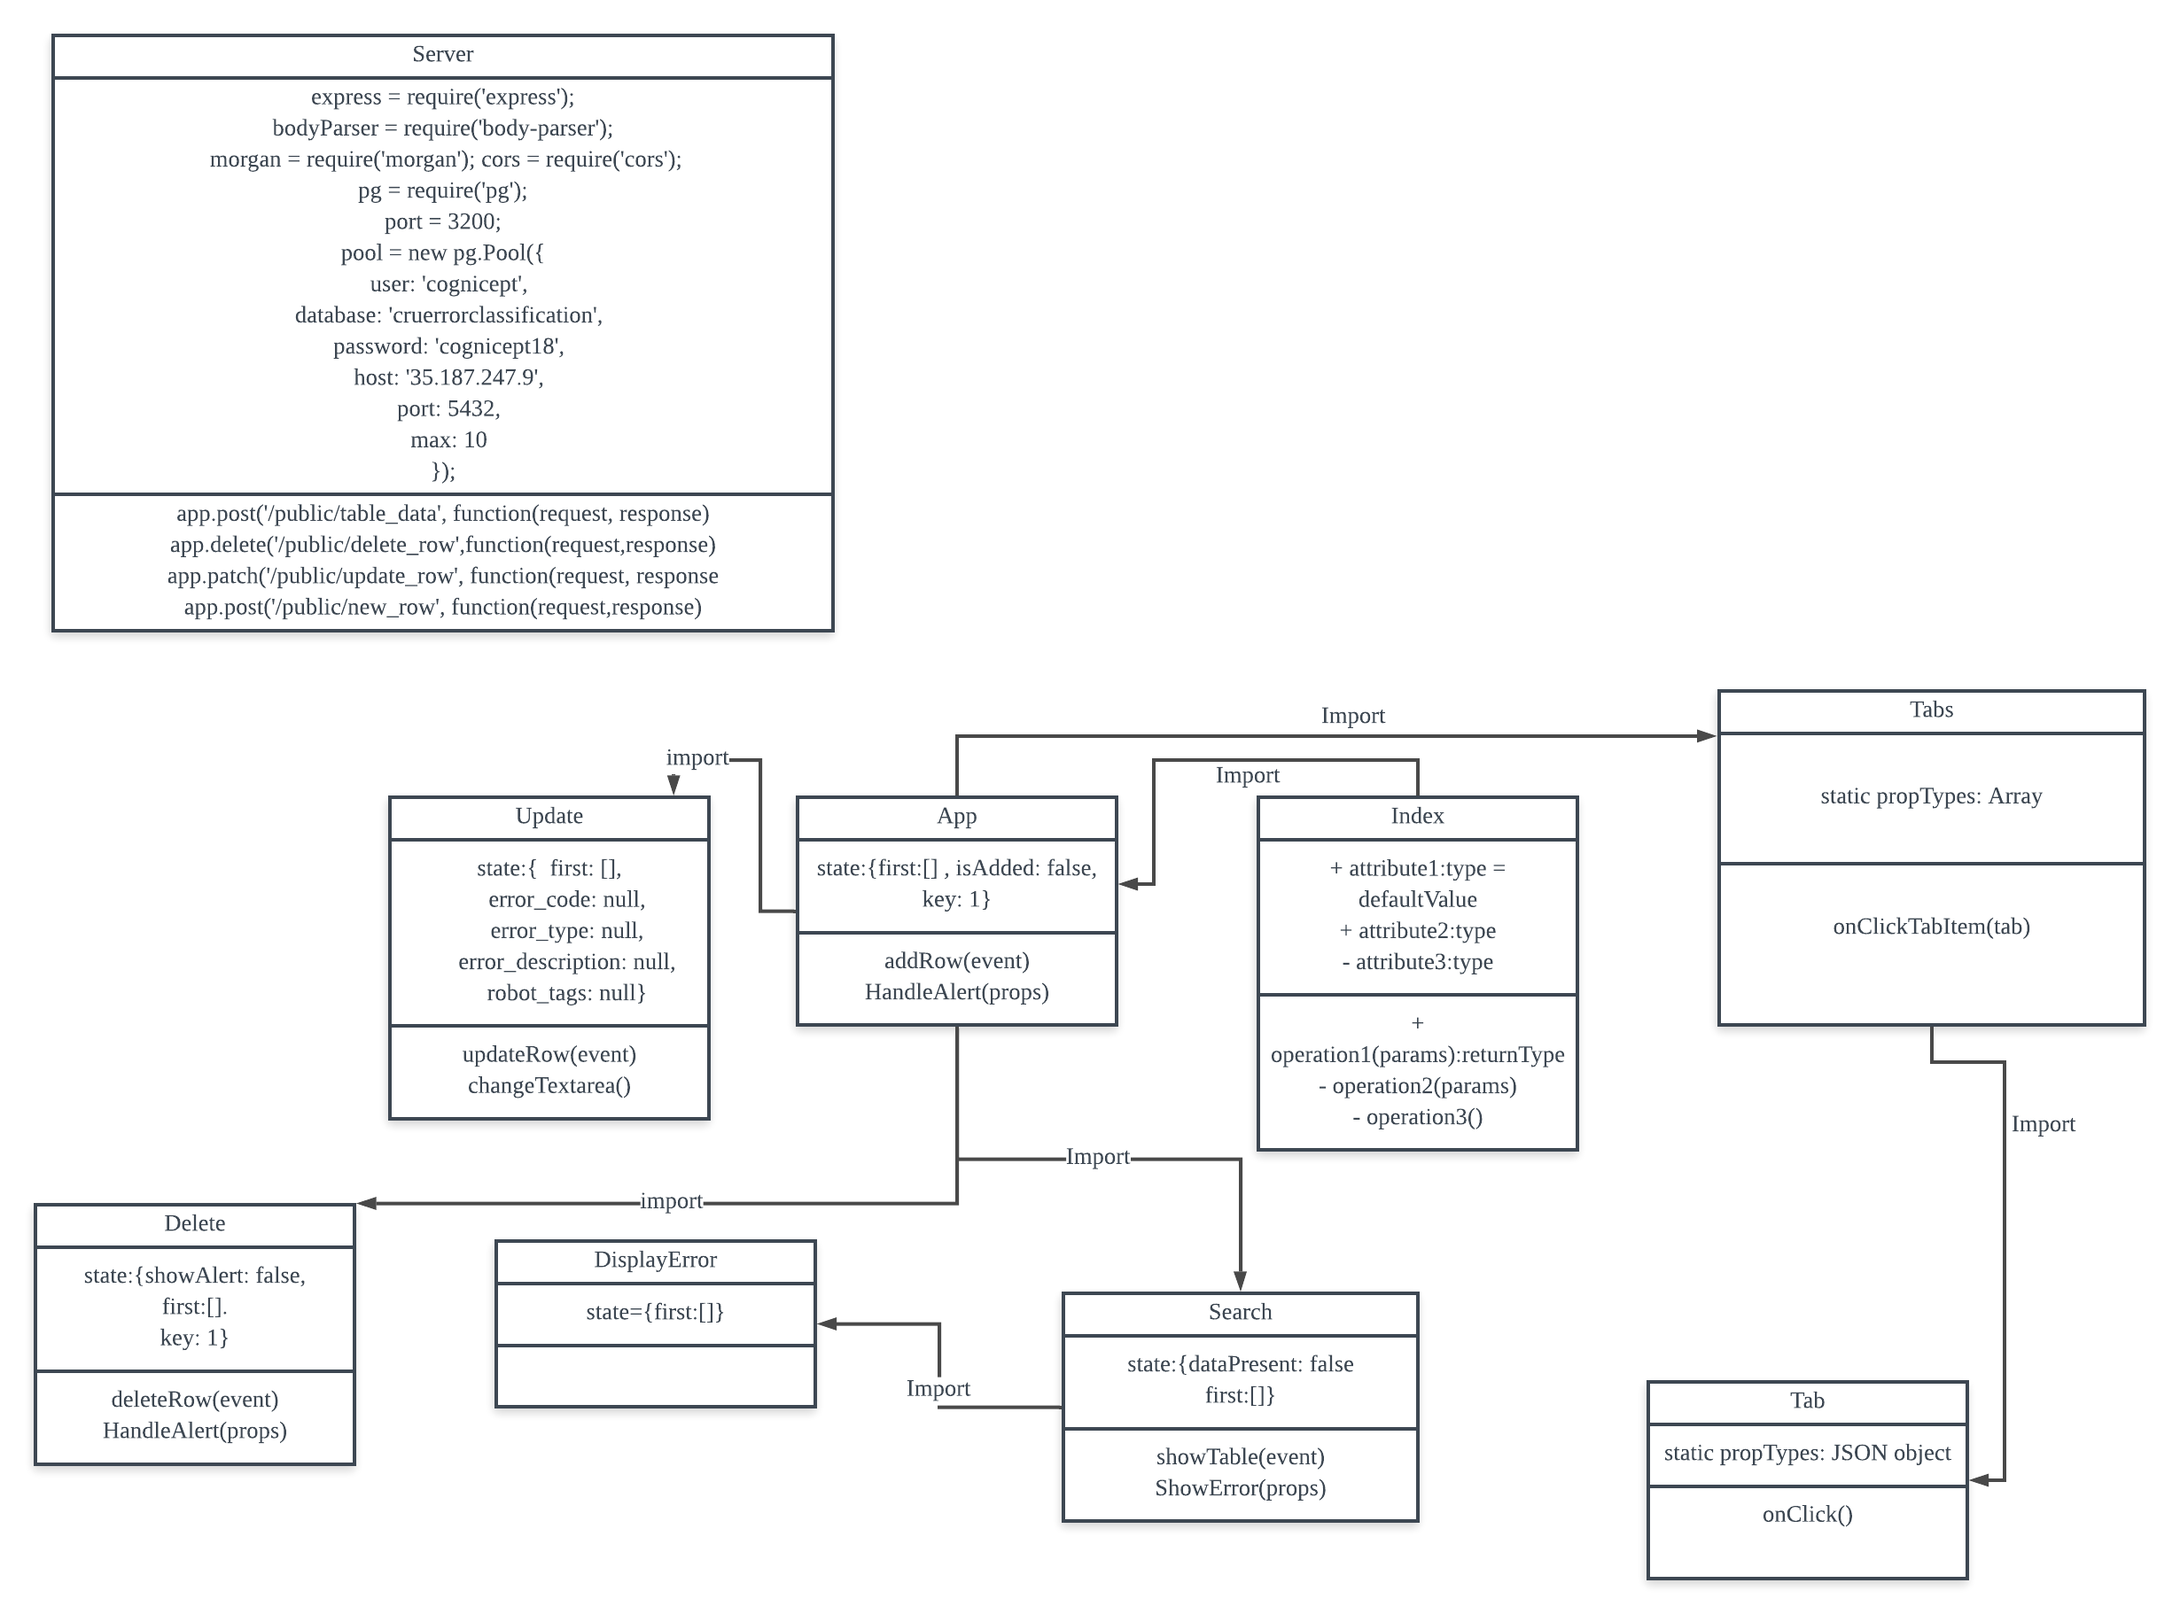
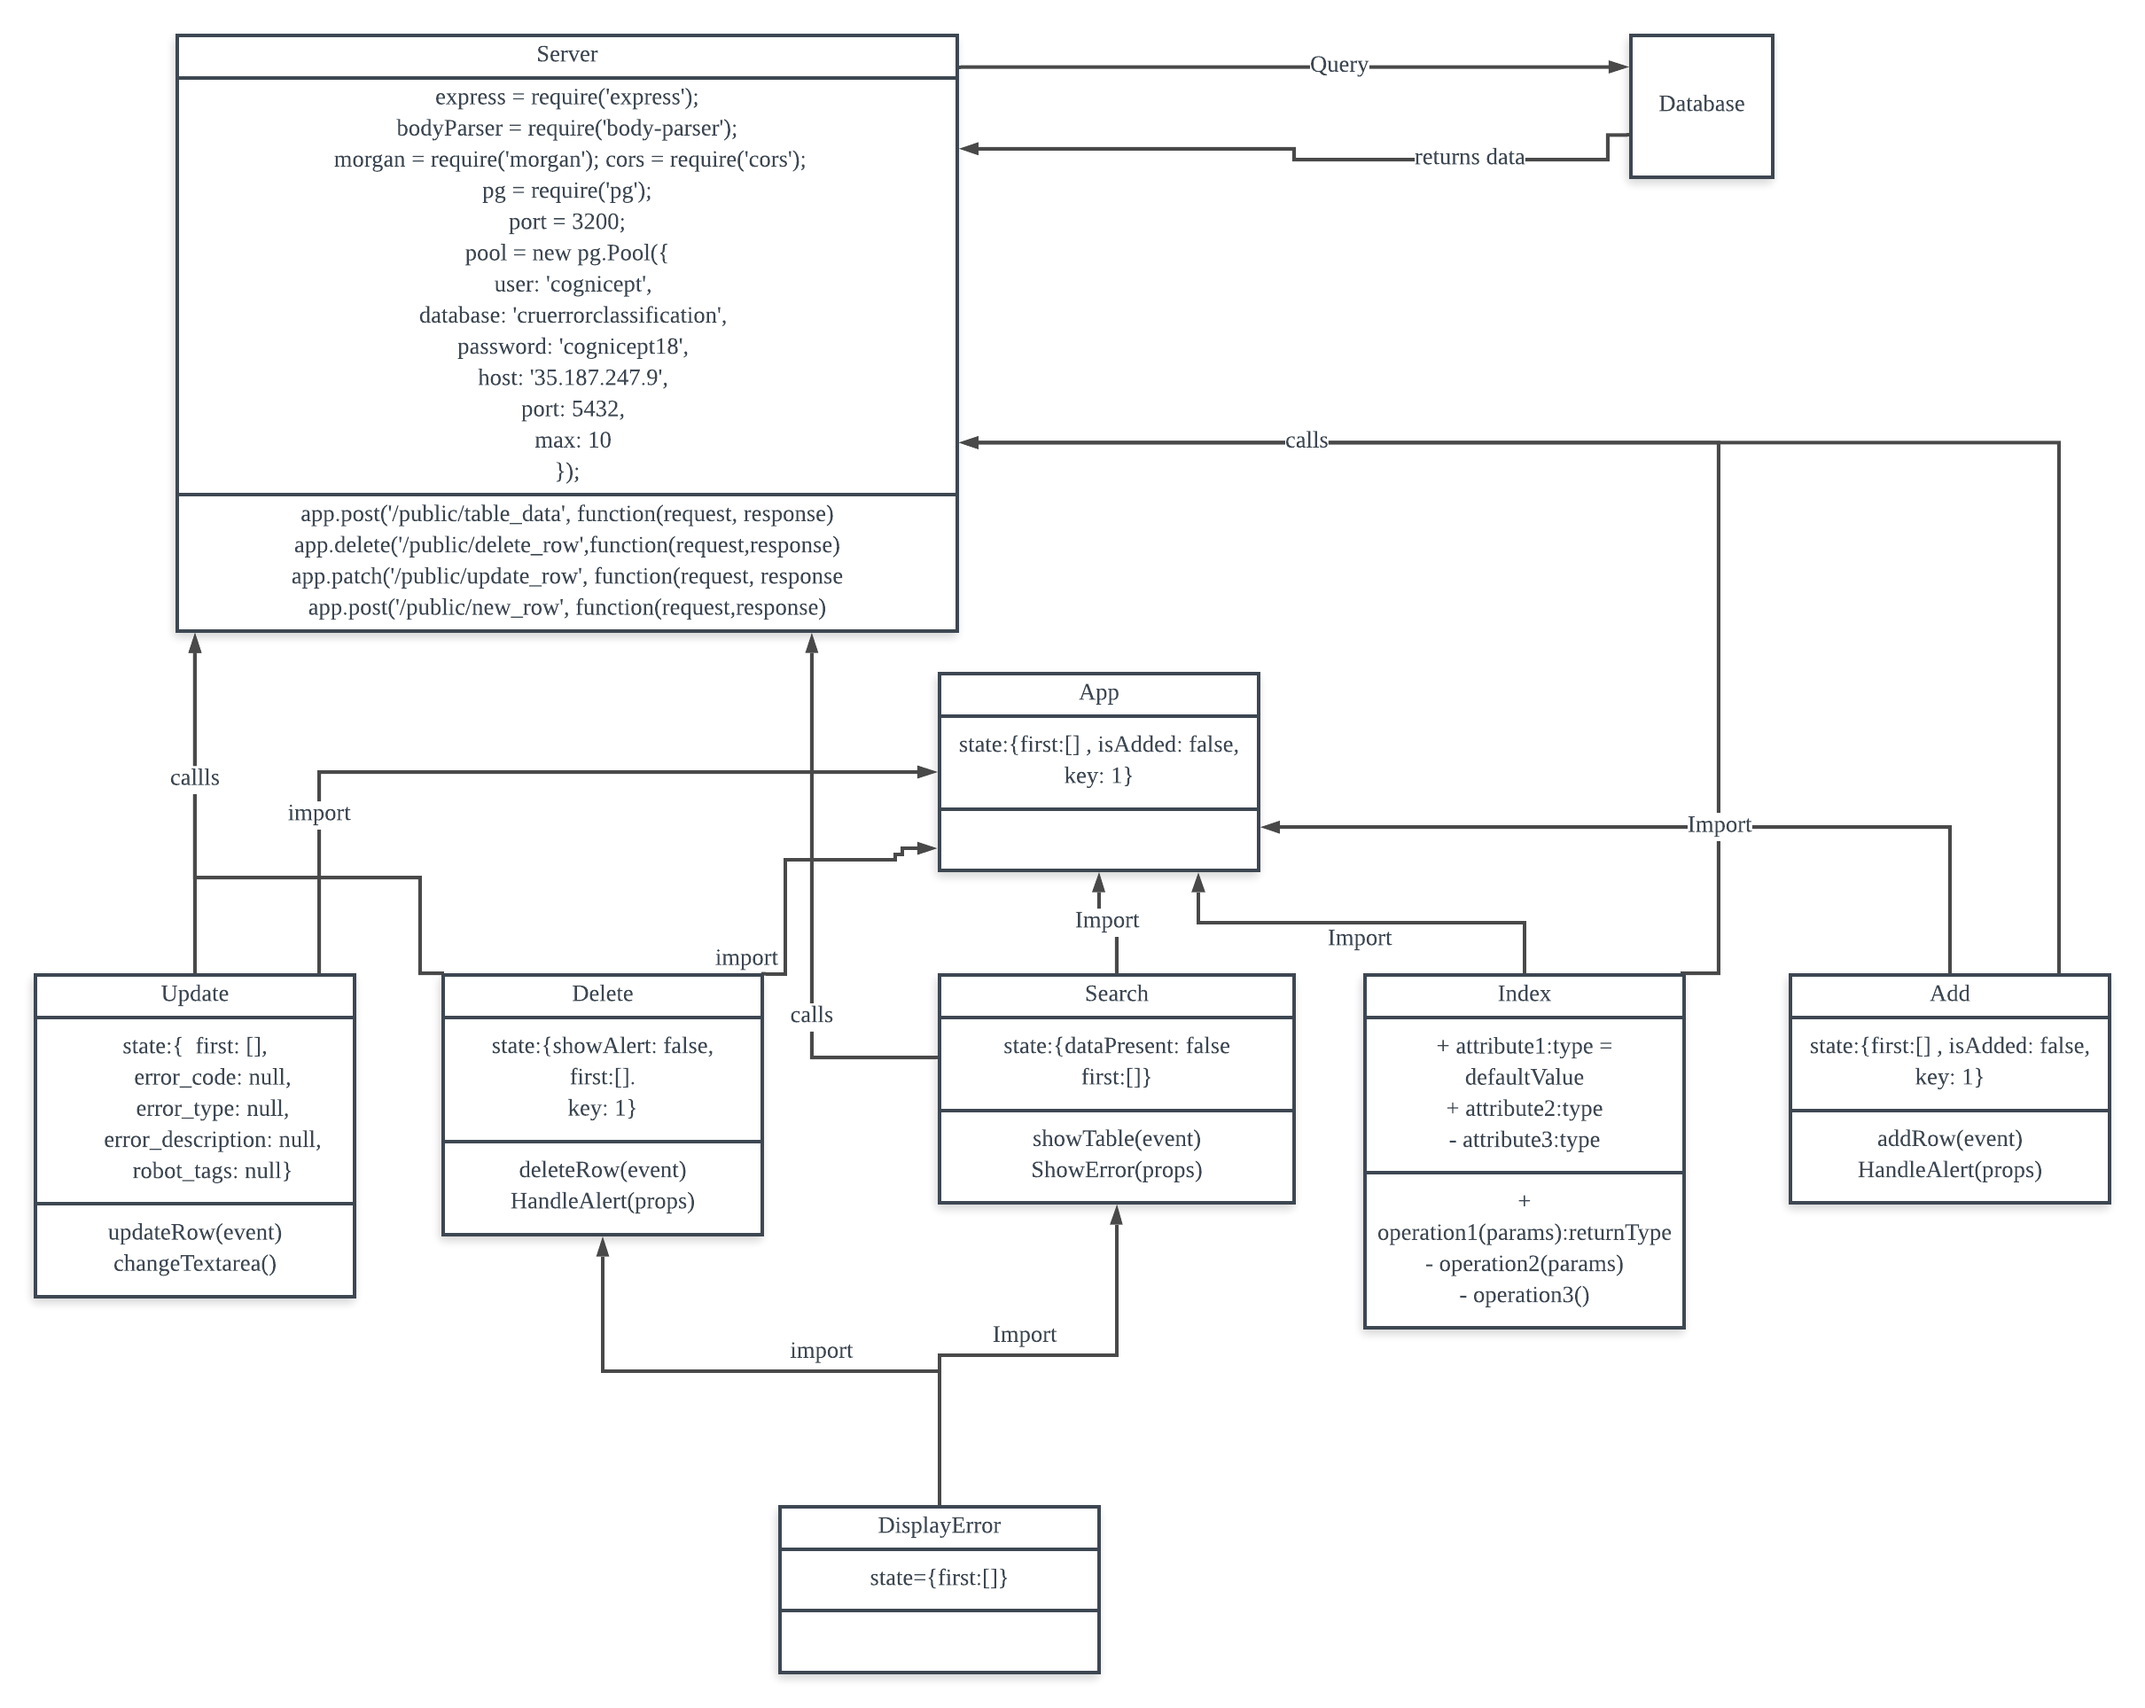
s

diff --git a/src/App.js b/src/App.js
@@ -47,46 +47,6 @@ class App extends Component { //function App() {
     }
   }
 
-  addRow(event){
-    event.preventDefault();
-    let that = this;
-    console.log(this.refs.error_code.value);
-    if(this.refs.error_code.value === ""){
-        that.setState({isEmpty: true,key: this.state.key+1 ,isAdded: false,isRepeated:false})
-      return
-    }
-    let data = {
-      error_type: this.refs.error_type.value,
-      error_code: this.refs.error_code.value,
-      error_description: this.refs.error_description.value,
-      robot_tags: this.refs.robot_tags.value,
-    };
-    var request = new Request('http://localhost:3200/public/new_row', {
-      method: 'POST',
-      headers: new Headers({'Content-Type': 'application/json'}),
-      body: JSON.stringify(data)
-    });
-    //xmlHTTPrequest
-    fetch(request).then(function(response){
-      response.json().then(data => {
-        if(data.name === 'error'){
-          that.setState({isRepeated:true,isAdded: false});
-        }
-        else{
-          that.setState({isAdded: true,isRepeated: false});
-        }
-      });
-    });
-    that.refs.error_code.value = ""
-    that.refs.robot_tags.value = ""
-    that.refs.error_type.value = ""
-    that.refs.error_description.value = ""
-    this.setState({key: this.state.key+1})
-  }
-  changeTextarea(){
-    this.refs.error_description.style.height = 'auto';
-    this.refs.error_description.style.height = this.refs.error_description.scrollHeight + 'px';
-  }
   render() {
     return (
       <div className='App'>
@@ -109,24 +69,5 @@ class App extends Component { //function App() {
 
     );
   }
-}
-function HandleAert(props){
-
-  if(props.isAdded ){
-    return(
-      <div class="alert alert-success" role="alert"> Successfully Added </div>
-    )
-  }
-  else if (props.isRepeated) {
-    return(
-      <div class="alert alert-danger" role="alert"> Error Code Already Exist </div>
-    )
-  }
-  else if(props.isEmpty){
-    return(
-      <div class="alert alert-danger" role="alert"> Error Code Field Cannot be Empty </div>
-    )
-  }
-  return <div> </div>
 }
 export default App;

diff --git a/public/index.html b/public/index.html
@@ -22,7 +22,7 @@
       work correctly both with client-side routing and a non-root public URL.
       Learn how to configure a non-root public URL by running `npm run build`.
     -->
-      <div class='wrapper'>
+      <div class='imgContainer'>
         <img class='image--cover' src='./cognicept_icon.png'/>
       </div>
   </head>
@@ -43,18 +43,18 @@
   </body>
 </html>
 <style>
-.wrapper {
-  padding-top: 5px;
-  margin-left: 1100px;
-  position: absolute;
-}
 
+.imgContainer{
+  width: 5%;
+  object-fit: fill;
+  position: absolute;
+  object-position: center;
+  margin-left: 1100px;
+}
 .image--cover {
-  width: 60px;
-  height: 50px;
+  width: 100%;
+  height: auto;
   border-radius: 0%;
 
-  object-fit: fill;
-  object-position: center;
 }
 </style>

diff --git a/server.js b/server.js
@@ -5,6 +5,7 @@ var cors = require('cors');
 let pg = require('pg');
 const port = 3200;
 
+
 // let pool = new pg.Pool({
 //   user: 'postgres',
 //   database: 'cruerrorclassification',

diff --git a/README.md b/README.md
@@ -1,20 +1,39 @@
 # README #
 
 # Intro #
-* CRUD for error details
-* Using postgresql, reactjs, react libraries and bootstrap.
-### How do I get set up? ###
-* Summary of set up
-* Enter directory of project in CMD then Run npm start and node server.js in 2 separate cmd
+* CRUD for error details.
+* Add.js adds new records,  Search.js searches for existing records, Delete.js deletes existing records, Update.js updates existing records.
+* Add.js, Search.js, Delete.js, Update.js uses Server.js functions to query the Postgresql databasez
+* Add.js uses addRow(event) to send a post request to server.js which then communicates with the database
+* Search.js uses findRow(event) to send a post request to server.js which then communicates with the database
+* Update.js uses updateRow(event) to send a patch request to server.js which then communicates with the database
+* Delete.js uses deleteRow(event) to send a delete request to server.js which then communicates with the database
+* Using postgresql, reactjs, and bootstrap.
+* extra react libraries include : react-flash-message , reactstrap
 
-## Database structure ##
+### How do I get set up? ###
+* Open 2 cmd, enter into the directory of the project in both cmd.
+* Run npm start and node server.js in the 2 separate cmd
+* npm start will start the website on localhost:3200
+* node server.js will establish connection to postgresql database.
+* run pgAdmin 4 for a direct interface with the database
+
+## Database Postgresql Connection Details##
+* user: 'cognicept',
+* database: 'cruerrorclassification',
+* password: 'cognicept18',
+* host: '35.187.247.9',
+* port: 5432,
+* max: 10
+
+## Database table structure ##
 | Column Name     | Data Type    |
 | --------|---------|
 | Error Code  | String   |
 | Error Type| String |
 | Error Description| String |
 | Robot Tags | Array separated|
-| Resolution | Timestamo without time zone|
+| Resolution | Timestamp without time zone|
 
 ## Architecture Diagram##
 ![ArchitectureDiagram](img/architecture_diagram.png)
